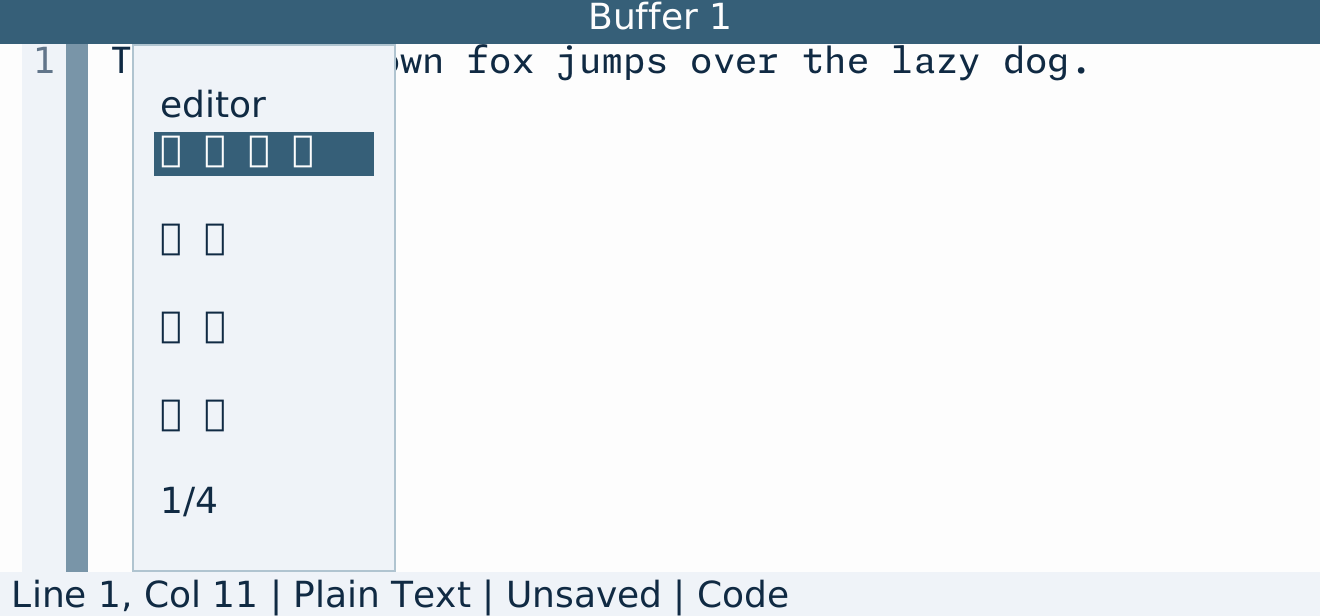
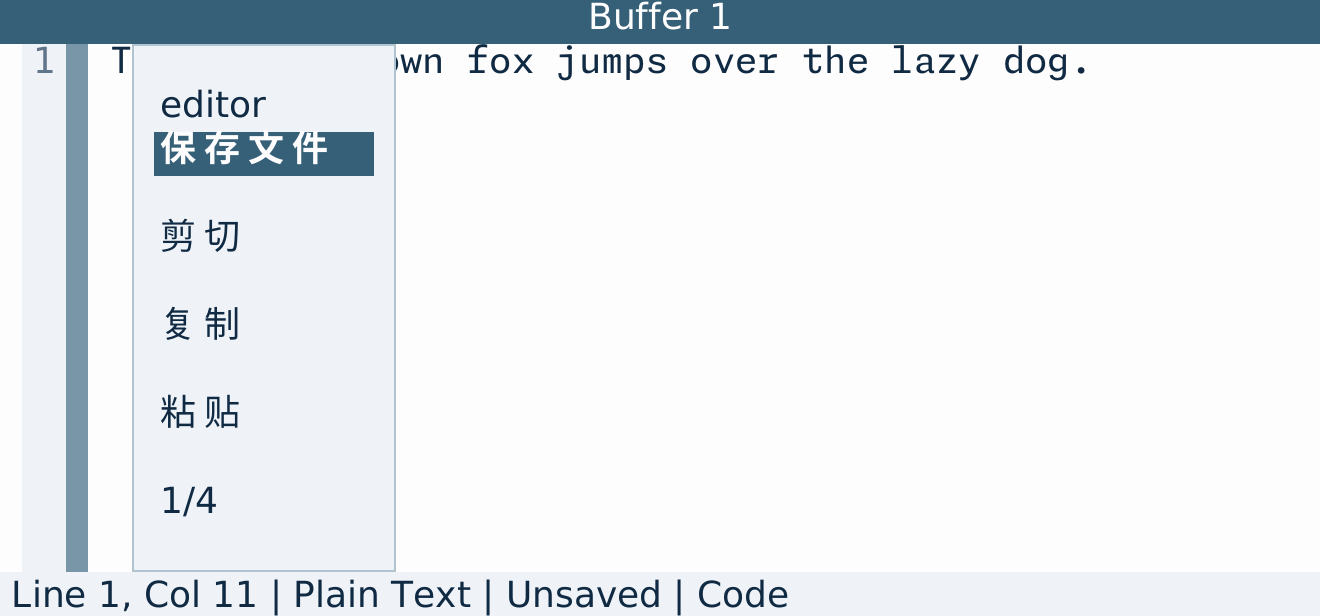
Re-render the CJK scene with a CJK font installed (#2389)
The runner had no CJK font, so the first renders drew boxes. This re-render
runs with Noto Sans CJK installed by a temporary CI step. Proof for the
owner's sign-off: removed before merge.

Claude-Session: https://claude.ai/code/session_01LR155ebKtHpSKGTSYnZVPg

diff --git a/docs/packaged-proof/2395/README.md b/docs/packaged-proof/2395/README.md
@@ -9,7 +9,7 @@ is still wanted.
 - `*-scale1.png`: 18 pt font. `*-scale2.png`: the same layout with a 36 pt font, so every pixel dimension doubles. It is
   not a HiDPI surface.
 - `before-layout.txt`, `after-layout.txt`: the menu's measured size in cells for each scene.
-- The CJK scene shows empty boxes instead of glyphs: the runner has no CJK font installed. The box widths are still the
-  cell widths the layout uses.
+- The CJK scene was re-rendered with Noto Sans CJK installed on the runner (a temporary CI step), so it shows real
+  glyphs; `*-layout.txt` lists the CJK families the runner had.
 
 Remove this directory before merge.
